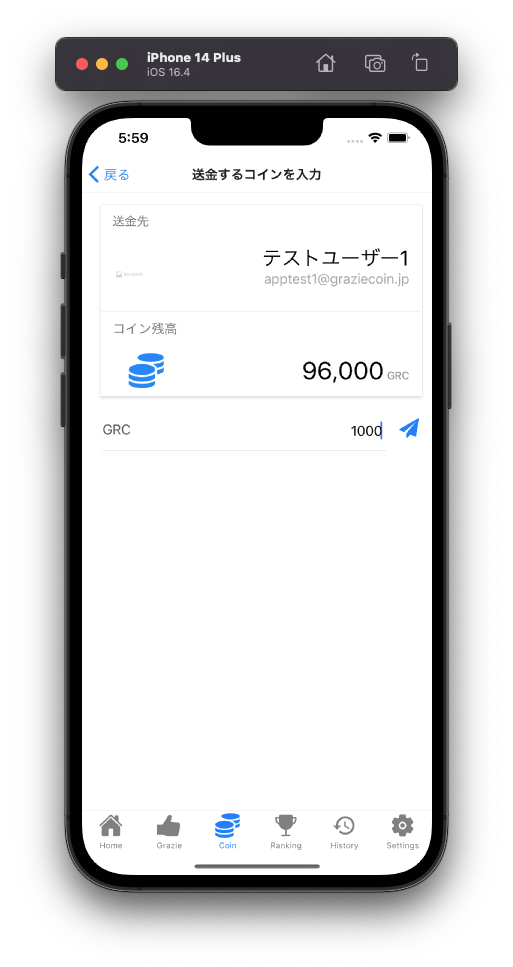
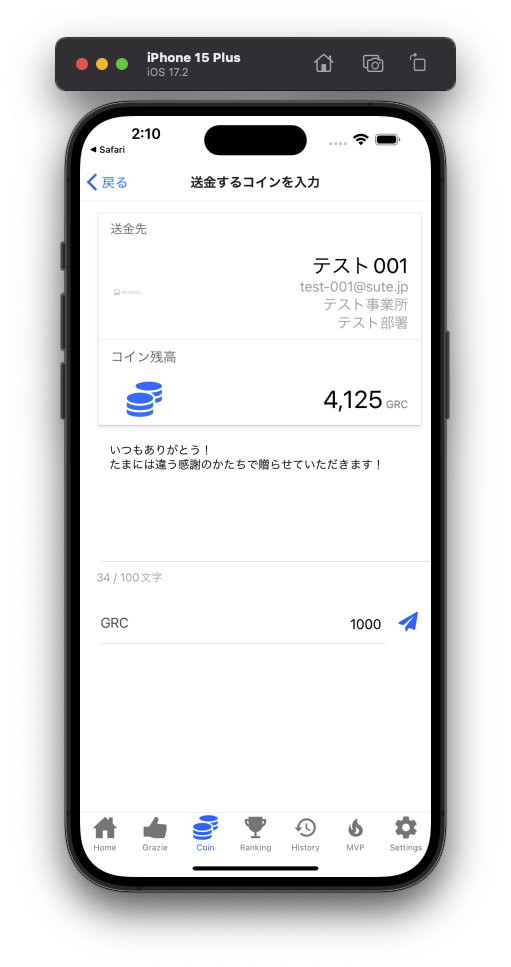
2024/10リリース

diff --git a/docs/releasenote/index.md b/docs/releasenote/index.md
@@ -1,19 +1,42 @@
 # リリースノート
 
-## :new: 2024年9月アップデート内容
+## :new: 2024年10月アップデート内容
 
 - ***新機能***
-    - **商品に在庫数を設定できるようになりました！([Web版](../管理者機能/productmaintenance.md)/[スマホアプリ版](../app/index.md#_10))**
+    - **コイン送金、回収する際に1~100文字でメッセージを入力できるようになりました([<u>Web</u>](../一般機能/GrazieCoin/coin02.md)/[<u>アプリ</u>](../app/index.md#_10))**
+        - メッセージを追加することで、コイン送金をする経緯を記録することができます
+        - たまにはお世話になっている方にグラッチェ以外の方法で感謝をしてみませんか？
+
+- ***変更点***
+    - **集計結果を表彰する際にコインを送金する必要がなくなりました([<u>Web</u>](../管理者機能/集計・表彰/total03.md#_6))**
+        - コイン送金することなく、一般ユーザに表彰結果を公開することができます
+        - 手動/自動集計どちらともコイン送金なしで表彰することができます
+    - **ユーザCSVインポートする際に空行が含まれていてもインポートできるようになりました([<u>Web</u>](../管理者機能/ユーザ/user04.md#csv_2))**
+        - 空行部分をアプリ側が自動的に排除することで、より快適にユーザインポートができるようになりました
+        - **※従来では空行が含まれている場合は空行部分を手動で削除し、再インポートをする必要がありました**
+    - **利用許諾を同意する画面のレイアウトが変更されました(Web/アプリ)**
+        - さらに見やすくするため外部リンクに変更しました <br>
+<a href="../releasenote/img/202410/202410-1.png" data-lightbox="スクリーンショット" data-title="スクリーンショット">
+    <img src="../releasenote/img/202410/202410-1.png" style="border: solid 1px #ccc; width: 465px;" />
+</a>
+<a href="../releasenote/img/202410/202410-2.png" data-lightbox="スクリーンショット" data-title="スクリーンショット">
+    <img src="../releasenote/img/202410/202410-2.png" style="border: solid 1px #ccc; width: 110px;" />
+</a>
+
+##  2024年9月アップデート内容
+
+- ***新機能***
+    - **商品に在庫数を設定できるようになりました！([<u>Web版</u>](../管理者機能/productmaintenance.md)/[<u>スマホアプリ版</u>](../app/index.md#_10))**
         - 在庫数が0になると「売り切れ」になり、ユーザは商品の交換ができなくなります
-    - **商品の交換申請を取り消しできるようになりました！([Web版](../一般機能/GrazieCoin/coin04.md)/[スマホアプリ版](../app/index.md#_11))**
+    - **商品の交換申請を取り消しできるようになりました！([<u>Web版</u>](../一般機能/GrazieCoin/coin04.md)/[<u>スマホアプリ版</u>](../app/index.md#_11))**
         - 取り消しを行うと、交換時に消費したコインが返金されます
         - **※2024年9月以降に交換申請した商品のみが対象です**
-    - **コイン送金機能の制限ができるようになりました！([Web版](../管理者機能/その他設定/other05.md)/[スマホアプリ版](../app/index.md#coin))**
+    - **コイン送金機能の制限ができるようになりました！([<u>Web版</u>](../管理者機能/その他設定/other05.md)/[<u>スマホアプリ版</u>](../app/index.md#coin))**
         - 制限されたユーザは一般画面のコイン送金ができなくなります(管理者画面からのコイン送金は除く)
-    - **CSVアップロードが更新にも対応するようになりました！([Web](../管理者機能/ユーザ/user04.md))**
+    - **CSVアップロードが更新にも対応するようになりました！([<u>Web</u>](../管理者機能/ユーザ/user04.md))**
         - 今までは登録のみでしたが、ついに更新にも対応しました
         - また、現在登録しているユーザの一覧をCSVでダウンロードできるため、更新も簡単です！
-    - **履歴からグラッチェできるようになりました！([スマホアプリ版](../app/index.md#history))**
+    - **履歴からグラッチェできるようになりました！([<u>スマホアプリ版</u>](../app/index.md#history))**
         - 履歴に表示されているユーザ名をタップするだけで、グラッチェ入力画面に遷移します
 
 ## 2024年7月アップデート内容

diff --git a/docs/管理者機能/集計・表彰/total03.md b/docs/管理者機能/集計・表彰/total03.md
@@ -14,16 +14,19 @@
 | :---: | :--------------------------- | :---: | :------------------------------------------------------------------------------------------------------------------------------------------ |
 |   1   | 1〜3位以外を表彰するボタン   |   -   | ボタンを押すと4〜10位までの表彰有無スイッチがONに切り替わります。<br>ボタンを押した後は、ボタン名が`1〜3位以外を表彰しないボタン`になります |
 |   2   | 1〜3位以外を表彰しないボタン |   -   | ボタンを押すと4〜10位までの表彰有無スイッチがOFFに切り替わります。<br>ボタンを押した後は、ボタン名が`1〜3位以外を表彰するボタン`になります  |
-|   3   | 順位                         |   ○   | 順位です                                                                                                                                    |
-|   4   | 賞金金額                     |   ○   | 順位に該当するユーザへ配布するコインの数を入力します                                                                                        |
-|   5   | 表彰有無スイッチ             |   -   | ONにすると順位に該当するユーザにコインを送ります。OFFの場合は表彰対象外になりコインは送られません。                                         |
-|   6   | [閉じるボタン](total01.md)                 |   -   | ボタンを押すと表彰画面を閉じます                                                                                                            |
-|   7   | 表彰実行ボタン               |   -   | ボタンを押すと入力された内容で、表彰有無ONの順位に該当するユーザにコインを送ります                                                            |
+|   3   | :new: コイン有無スイッチ                         |   ○   | ONにするとコイン送金を行います。OFFの場合はコイン送金を行いません。                                                                                                                                    |
+|   4   | 順位                         |   ○   | 順位です                                                                                                                                    |
+|   5   | 賞金金額                     |   ○   | 順位に該当するユーザへ配布するコインの数を入力します                                                                                        |
+|   6   | コインあり/なしスイッチ             |   -   | ONにすると順位に該当するユーザにコインを送ります。OFFの場合は送金対象外になりコインは送られません。                                         |
+|   7   | [閉じるボタン](total01.md)                 |   -   | ボタンを押すと表彰画面を閉じます                                                                                                            |
+|   8   | 表彰実行ボタン               |   -   | ボタンを押すと入力された内容で、コインありに設定されている順位に該当するユーザにコインを送ります                                                            |
 
 
 ## 使い方
 
-### 表彰する
+### コインを送金して表彰する
+<iframe src="https://scribehow.com/embed/__pwUHrjKoQgWpIx4ElASClg" width="640" height="640" allowfullscreen frameborder="0"></iframe>
 
-<iframe src="https://scribehow.com/embed/__b8o8iGGiSEmbiKwfLbQ4RA" width="640" height="640" allowfullscreen frameborder="0"></iframe>
+### :new: コインを送金しないで表彰する
 
+<iframe src="https://scribehow.com/embed/__SRk8pn79RNOJV2r_nUvydw" width="640" height="640" allowfullscreen frameborder="0"></iframe>

diff --git a/docs/一般機能/GrazieCoin/coin02.md b/docs/一般機能/GrazieCoin/coin02.md
@@ -35,10 +35,11 @@
 |   4   | 金額                  |   -   | 送金する金額を入力します                                                                                                                                                                                  |
 |   5   | 円換算                |   -   | コインを現在のレートで換算した金額を表示します。<br>**レートオプション機能が有効な場合のみ表示します**。<br>レートオプション機能は[こちら](../../管理者機能/オプション機能/option01.md)をご参照ください。 |
 |   6   | 更新ボタン            |   -   | 最新のレートを取得し、コインを現在のレートで換算した金額を表示します。<br>**レートオプション機能が有効な場合のみ表示します**。                                                                            |
-|   7   | 500GRC, 1500GRCボタン |   -   | ボタンを押すとボタンに書いてある金額を、「金額」欄に入力します                                                                                                                                                                              |
-|   8   | [閉じるボタン](../GrazieCoin/coin01.md)         |   -   | ボタンを押すと画面を閉じます                                                                                                                                                                              |
-|   9   | 送金ボタン           |   -   | ボタンを押すと送金します                                                                                                                                                                                  |
+|   7   | メッセージ入力 |   -   | コイン送る際のメッセージを1~100文字で入力します                                                                                                                                                                              |
+|   8   | 500GRC, 1500GRCボタン |   -   | ボタンを押すとボタンに書いてある金額を、「金額」欄に入力します                                                                                                                                                                              |
+|   9   | [閉じるボタン](../GrazieCoin/coin01.md)         |   -   | ボタンを押すと画面を閉じます                                                                                                                                                                              |
+|   10   | 送金ボタン           |   -   | ボタンを押すと送金します                                                                                                                                                                                  |
 
 ## 使い方
 ### コインを送る
-<iframe src="https://scribehow.com/embed/__cDcvfvSeRUeUbhrTTF24YA" width="640" height="640" allowfullscreen frameborder="0"></iframe>
+<iframe src="https://scribehow.com/embed/__AvKEoqrBT0mdeUnjJbve4w" width="640" height="640" allowfullscreen frameborder="0"></iframe>

diff --git a/docs/app/index.md b/docs/app/index.md
@@ -85,10 +85,10 @@
     -  更新ボタンを押すと最新の残高を取得します。
 - 「コインを送る」ボタン
     - コイン送金先選択画面へ移動します。
-      - :new:**※コイン送金機能が制限されている場合は表示されません。**
+      - **※コイン送金機能が制限されている場合は表示されません。**
 - 「商品と交換する」ボタン
     - 商品選択画面へ移動します。
-- :new:「商品交換状況」ボタン
+- 「商品交換状況」ボタン
     - 商品交換状況一覧画面へ移動します。
 
 ### コイン送金先選択画面
@@ -96,9 +96,15 @@
 1. コインを送りたいユーザを選択します。
    - ユーザ名、事業所、部署を指定することで、ユーザを絞り込めます。 
    - ※サービス契約区分が会社の場合は「事業所」「部署」は表示されません
-1. コインアイコンをタップすると、送金金額を入力する画面に移動します。
+1. コインアイコンをタップすると、コイン送金入力画面に移動します。
 
 <img alt="コイン先選択" src="img/coin2.png" width="300">
+
+### コイン送金入力画面
+
+1. メッセージを1~100文字で入力します。
+2. 送金するコインを入力します。
+3. 紙ヒコーキボタンをタップすると送金することができます。
 <img alt="コイン送金" src="img/coin3.png" width="300">
 
 
@@ -109,11 +115,11 @@
 
 残高不足で交換できない商品は、ボタンが「**残高不足**」と表示されます。
 
-:new:在庫がない商品は、ボタンが「**在庫切れ**」と表示されます。
+在庫がない商品は、ボタンが「**在庫切れ**」と表示されます。
 
 <img alt="商品選択" src="img/coin4.png" width="300">
 
-### :new:商品交換状況一覧画面
+### 商品交換状況一覧画面
 **交換申請中の商品**を確認する画面です。
 
 「取消」ボタンをタップすると**交換申請を取り消すことができます。**
@@ -151,7 +157,7 @@
 <img alt="グラッチェ履歴" src="img/history.png" width="300">
 <img alt="グラッチェ履歴" src="img/history2.png" width="300">
 
-:new: 青い下線が表示されているユーザ名をタップすると、**グラッチェ入力画面に遷移します**
+ 青い下線が表示されているユーザ名をタップすると、**グラッチェ入力画面に遷移します**
 
 <img alt="グラッチェ履歴" src="img/history6.png" width="300">
 <img alt="グラッチェ履歴" src="img/history7.png" width="300">

diff --git a/docs/管理者機能/ユーザ/user04.md b/docs/管理者機能/ユーザ/user04.md
@@ -37,13 +37,15 @@
 
 
 
-## CSVファイルについて
+## :new: CSVファイルについて
 
 - CSVファイル（データがカンマ区切り、拡張子が.csv）の内容をユーザ情報に変換し一括登録します
 
 - 事業所または部署は、[組織](../groupmaintenance.md)よりIDを確認し入力してください
 
 - 事業所または部署が無い場合、該当箇所に 空文字を設定してください
+
+:new:　**※2024年10月のアップデートにより、空行が含まれていてもアプリ側が空行を自動的に排除するようになりました**
 
 | ユーザ名 | メールアドレス | 事業所 | 部署 | 権限                       |
 | -------- | -------------- | ------ | ---- | -------------------------- |
@@ -89,7 +91,6 @@ VSC管理者,vsckanri@graziecoin.jp,0000000000,1111111111,1
 ### よくあるインポートエラーの例
 
 !!! fail
-    - CSVファイルの末尾に空行がある
     - 事業所ID、部署IDが間違っている
         - 組織からIDをコピーして入力してください
     - 権限の値が間違っている

diff --git a/docs/管理者機能/ユーザ/user01.md b/docs/管理者機能/ユーザ/user01.md
@@ -67,14 +67,14 @@
     ウォレット残高は[管理者コンソール](../adminconsole.md)に表示されています
 
 
-<iframe src="https://scribehow.com/embed/1__qIm60GrJQVqGEqmmpfoQvA" width="640" height="640" allowfullscreen frameborder="0"></iframe>
+<iframe src="https://scribehow.com/embed/1__9WqDk0_dSaSZd84aT78U6g" width="640" height="640" allowfullscreen frameborder="0"></iframe>
 
 ### 1人のユーザからコインを回収する
 
 !!! info
     管理者は一般ユーザに対して誤ってコインを付与してしまった際などに付与したコインを回収することができます
 
-<iframe src="https://scribehow.com/embed/1__ad_EZiolQDmMwd7MrspOBg" width="640" height="640" allowfullscreen frameborder="0"></iframe>
+<iframe src="https://scribehow.com/embed/1__mkJQuCoXREu232Dy0cI_mQ" width="640" height="640" allowfullscreen frameborder="0"></iframe>
 
 ### [複数ユーザに一括でコインを送る](user05.md)
 

diff --git a/docs/一般機能/GraziePoint/grazie02.md b/docs/一般機能/GraziePoint/grazie02.md
@@ -1,4 +1,4 @@
-[一般ユーザ向けマニュアル](../../../一般機能/) > [機能説明](../../../一般機能/#_2) > [Grazie Point](../../../一般機能/#grazie-point) > [Top](../../../一般機能/GraziePoint/grazie01) > [グラッチェする](#)
+[一般ユーザ向けマニュアル](../../../一般機能/) > [機能説明](../../../一般機能/#_2) > [Grazie Point](../../../一般機能/#grazie-point) > [Top](../../../一般機能/GraziePoint/grazie01/) > [グラッチェする](#)
 # グラッチェする
 
 ## ユーザ選択画面

diff --git a/docs/管理者機能/自動集計設定/autototal03.md b/docs/管理者機能/自動集計設定/autototal03.md
@@ -5,9 +5,6 @@
 <a href="../../../images/autototal/3-1.png" data-lightbox="スクリーンショット" data-title="スクリーンショット">
     <img src="../../../images/autototal/3-1.png" style="border: solid 1px #ccc; width: 800px;" />
 </a>
-<a href="../../../images/autototal/3-2.png" data-lightbox="スクリーンショット" data-title="スクリーンショット">
-    <img src="../../../images/autototal/3-2.png" style="border: solid 1px #ccc; width: 800px;" />
-</a>
 
 （クリックすると拡大します）
 

diff --git a/docs/一般機能/GrazieCoin/coin04.md b/docs/一般機能/GrazieCoin/coin04.md
@@ -1,5 +1,5 @@
 [一般ユーザ向けマニュアル](../../../一般機能/) > [機能説明](../../../一般機能/#_2) > [Grazie Coin](../../../一般機能/#grazie-coin) > [Top](coin01.md) > [商品交換](coin03.md) > [商品交換状況](#)
-# 　:new:商品交換状況画面
+# 　商品交換状況画面
 ## 画面
 
 <a href="../../../images/coin/4-1.png" data-lightbox="スクリーンショット" data-title="スクリーンショット">

diff --git a/docs/管理者機能/index.md b/docs/管理者機能/index.md
@@ -116,7 +116,7 @@
 - [スーパーグラッチェ](その他設定/other02.md)
 
 ### :material-lock: 機能制限設定
-- :new:[コイン送金制限設定](その他設定/other05.md)
+- [コイン送金制限設定](その他設定/other05.md)
 - [履歴公開設定](その他設定/other04.md)
 
 

diff --git a/docs/一般機能/index.md b/docs/一般機能/index.md
@@ -13,7 +13,7 @@
 - [Top](GrazieCoin/coin01.md)
     - [コインを送る](GrazieCoin/coin02.md)
     - [商品交換](GrazieCoin/coin03.md)
-        - :new:[商品交換状況](GrazieCoin/coin04.md)
+        - [商品交換状況](GrazieCoin/coin04.md)
 
 
 ### :material-history: History
